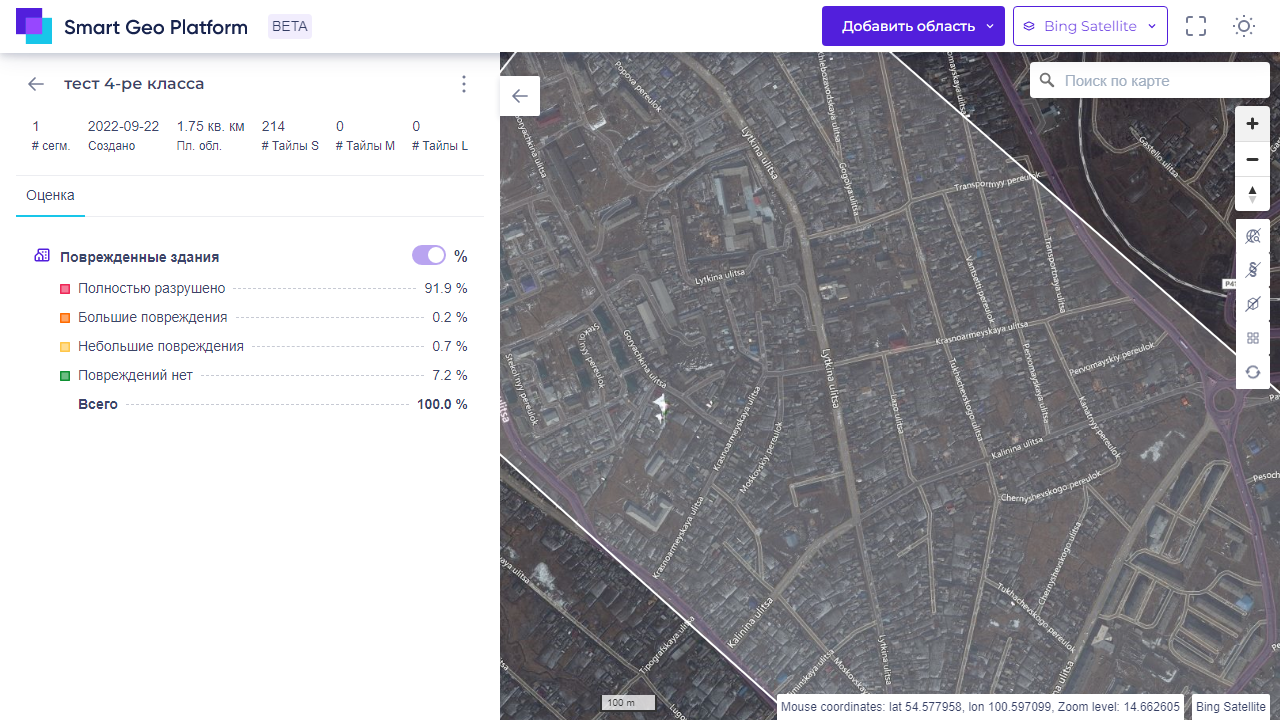
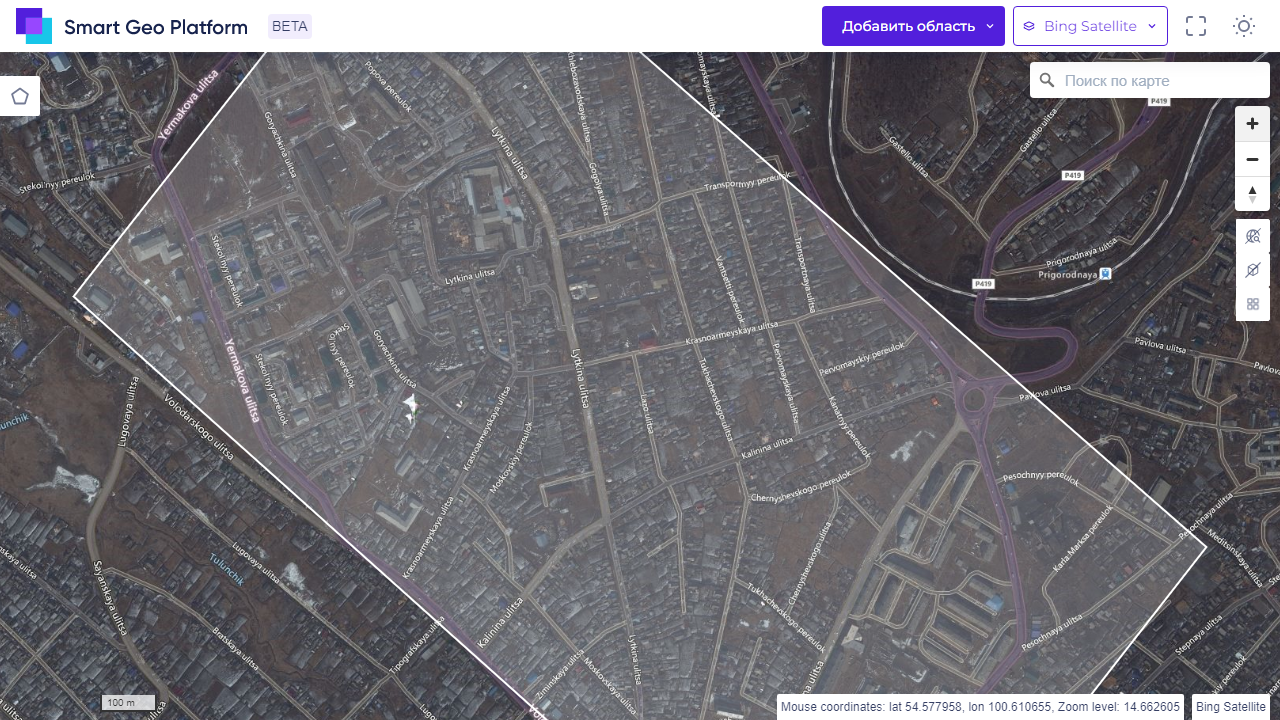
added test checkResetNorth

diff --git a/src/test/java/MapControlTest.java b/src/test/java/MapControlTest.java
@@ -1,7 +1,7 @@
 import org.junit.jupiter.api.BeforeEach;
 import org.junit.jupiter.api.Test;
 import org.junit.jupiter.api.extension.ExtendWith;
-import pages.ShapeCalcPage;
+import pages.ShapeShowPage;
 import util.JunitExtension;
 import util.Util;
 
@@ -9,30 +9,46 @@ import java.io.IOException;
 
 @ExtendWith(JunitExtension.class)
 public class MapControlTest {
-    private final String SHAPE_LINK = "?showAside=true&shape=215&detailed=true";
+    private final int SHAPE_ID = 215;
     private final String EXPSCREENSHOTS_TEST_CLASS_DIR = "MapControlTest\\";
-    ShapeCalcPage shapeCalcPage;
+    ShapeShowPage shapeShowPage;
 
     @BeforeEach
-    void openMainPage() {
-        shapeCalcPage = new ShapeCalcPage().openShapeCalcPageWithMapWait(SHAPE_LINK);
-        shapeCalcPage.selectDefaultSettings();
+    void openShapeShowPage() {
+        shapeShowPage = new ShapeShowPage().openShapeShowPageWithMapWait(SHAPE_ID);
+        shapeShowPage.selectDefaultSettings();
     }
 
     @Test
     void checkZoom() throws IOException {
-        shapeCalcPage.mapControl.clickZoomIn(1);
+        shapeShowPage.mapControl.clickZoomIn(1);
         Util.checkScreenshot(
                 "actMainPageZoomIn",
-                "expMainPageZoomOut",
+                "expMainPageZoomIn",
                 "checkMainPageZoomIn",
                 EXPSCREENSHOTS_TEST_CLASS_DIR);
 
-        shapeCalcPage.mapControl.clickZoomOut(2);
+        shapeShowPage.mapControl.clickZoomOut(2);
         Util.checkScreenshot(
                 "actMainPageZoomOut",
                 "expMainPageZoomOut",
                 "checkMainPageZoomOut",
+                EXPSCREENSHOTS_TEST_CLASS_DIR);
+    }
+
+    @Test
+    void checkResetNorth() throws IOException {
+        shapeShowPage.mapBlock.turnMapToTheLeft(2);
+        Util.checkScreenshot(
+                "actTurnMapToLeft",
+                "expTurnMapToLeft",
+                "checkTurnMapToLeft",
+                EXPSCREENSHOTS_TEST_CLASS_DIR);
+        shapeShowPage.mapControl.getCompassBtn().click();
+        Util.checkScreenshot(
+                "actResetNorth",
+                "expResetNorth",
+                "checkResetNorth",
                 EXPSCREENSHOTS_TEST_CLASS_DIR);
     }
 }

diff --git a/src/main/java/pages/ShapeCalcPage.java b/src/main/java/pages/ShapeCalcPage.java
@@ -6,15 +6,17 @@ import static util.Constants.SGP_URL_DEV;
 
 public class ShapeCalcPage extends BasePage {
 
-    public ShapeCalcPage openShapeCalcPage(String SHAPE_LINK) {
-        page.navigate(SGP_URL_DEV + SHAPE_LINK);
+    public ShapeCalcPage openShapeCalcPage(int SHAPE_ID) {
+        page.navigate(SGP_URL_DEV + "?showAside=true&shape=" + SHAPE_ID + "&detailed=true");
         return this;
     }
 
-    public ShapeCalcPage openShapeCalcPageWithMapWait(String SHAPE_LINK) {
-        openShapeCalcPage(SHAPE_LINK);
-        mapBlock.waitForMap();
+    public ShapeCalcPage openShapeCalcPageWithMapWait(int SHAPE_ID) {
+        openShapeCalcPage(SHAPE_ID);
+  //      mapBlock.waitForMap();
         mapBlock.waitForStandartZoom();
+        mapControl.getCompassBtn().click();
+        page.waitForTimeout(1000);
         return this;
     }
 

diff --git a/src/main/java/elements/MapBlock.java b/src/main/java/elements/MapBlock.java
@@ -7,7 +7,7 @@ import util.JunitExtension;
 public class MapBlock {
 
     //<editor-fold desc="Selectors">
-    private static final String SELECTOR_MAP = ".mapboxgl-map";
+    private static final String SELECTOR_MAP = ".overlays";
     private static final String SELECTOR_STANDART_ZOOM = "text=300 m";
     //</editor-fold>
 
@@ -39,5 +39,15 @@ public class MapBlock {
 
     public void waitForStandartZoom(){
         this.page.waitForSelector(SELECTOR_STANDART_ZOOM);
+    }
+
+    public void turnMapToTheLeft(int countLeftClick){
+        int num = 0;
+        page.locator(SELECTOR_MAP).click();
+        do {
+            num += 1;
+            page.locator(SELECTOR_MAP).press("Control+ArrowLeft");
+
+        } while (num < Math.abs(countLeftClick));
     }
 }

diff --git a/src/main/java/pages/ShapeShowPage.java b/src/main/java/pages/ShapeShowPage.java
@@ -1,0 +1,26 @@
+package pages;
+
+import com.microsoft.playwright.Page;
+
+import static util.Constants.SGP_URL_DEV;
+
+public class ShapeShowPage extends BasePage {
+
+    public ShapeShowPage openShapeShowPage(int SHAPE_ID) {
+        page.navigate(SGP_URL_DEV + "?showAside=false&shape=" + SHAPE_ID);
+        return this;
+    }
+
+    public ShapeShowPage openShapeShowPageWithMapWait(int SHAPE_ID) {
+        openShapeShowPage(SHAPE_ID);
+ //       mapBlock.waitForMap();
+        mapBlock.waitForStandartZoom();
+        mapControl.getCompassBtn().click();
+        page.waitForTimeout(1000);
+        return this;
+    }
+
+    public Page getPage() {
+        return this.page;
+    }
+}
